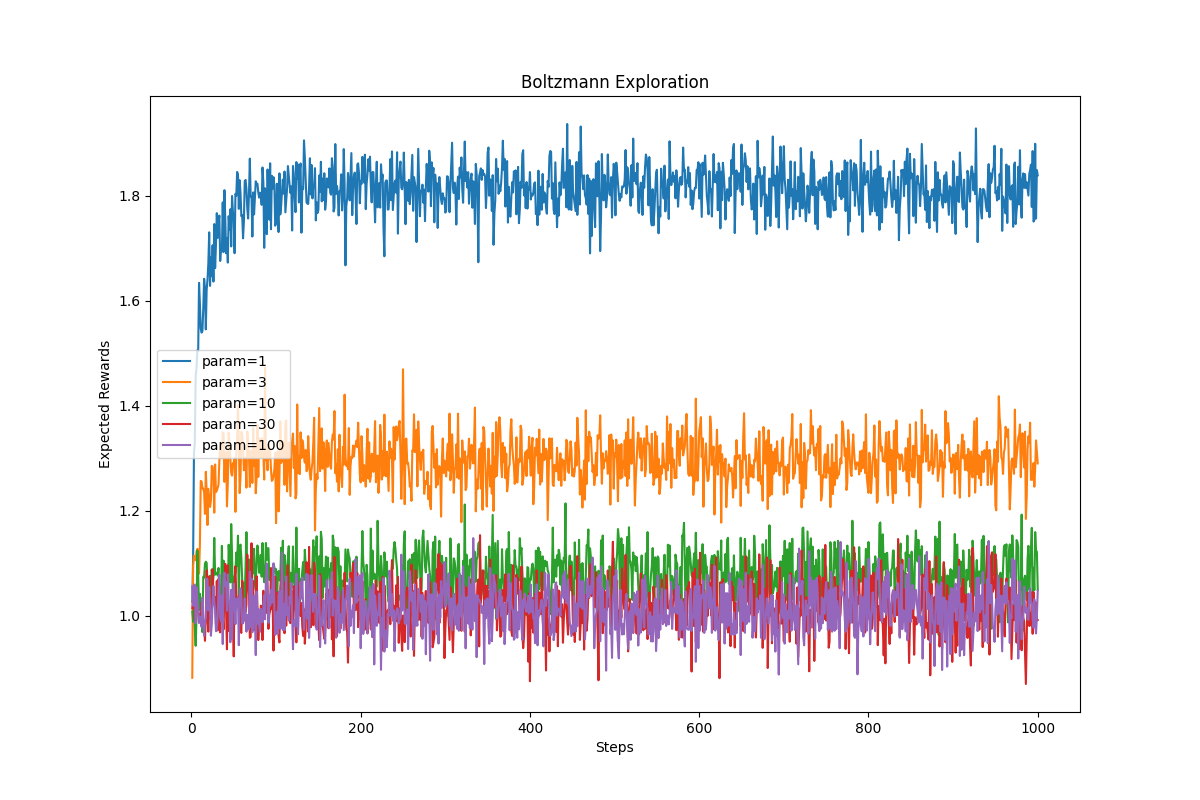
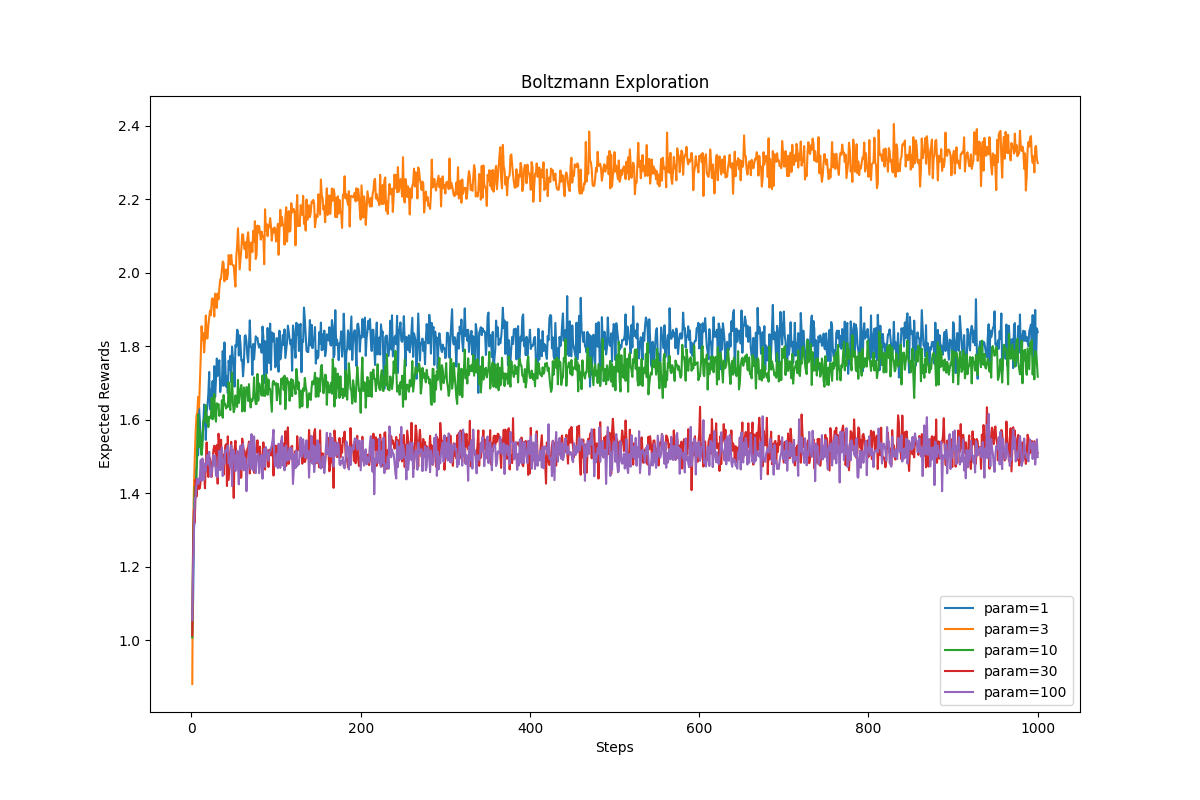
Correct Boltzmann

Changed region(s): [[0.0925, 0.1562, 0.8942, 0.875], [0.0925, 0.2188, 0.1233, 0.25]]

diff --git a/hw1/hw1q2/bandits.py b/hw1/hw1q2/bandits.py
@@ -106,7 +106,7 @@ def boltzmannE(temperature, steps, k, realRewards, n):
     # TO DO: initialize q values per arm
     Q = np.zeros(k)
     # TO DO: initialize probability values for each arm
-    prob = np.exp(Q / temperature) / np.sum(np.exp(Q / temperature))
+    prob = np.exp(Q * temperature) / np.sum(np.exp(Q * temperature))
     # TO DO: implement the Boltzmann Exploration algorithm over all steps and return the expected rewards across all steps
     for t in range(steps):
         a = np.random.choice(k, p=prob)
@@ -114,7 +114,7 @@ def boltzmannE(temperature, steps, k, realRewards, n):
         n[a] += 1
         Q[a] += (1/n[a]) * (reward - Q[a])
         rewards[t] = reward
-        prob = np.exp(Q / temperature) / np.sum(np.exp(Q / temperature))
+        prob = np.exp(Q * temperature) / np.sum(np.exp(Q * temperature))
     return rewards
 
 # PLOT TEMPLATE
